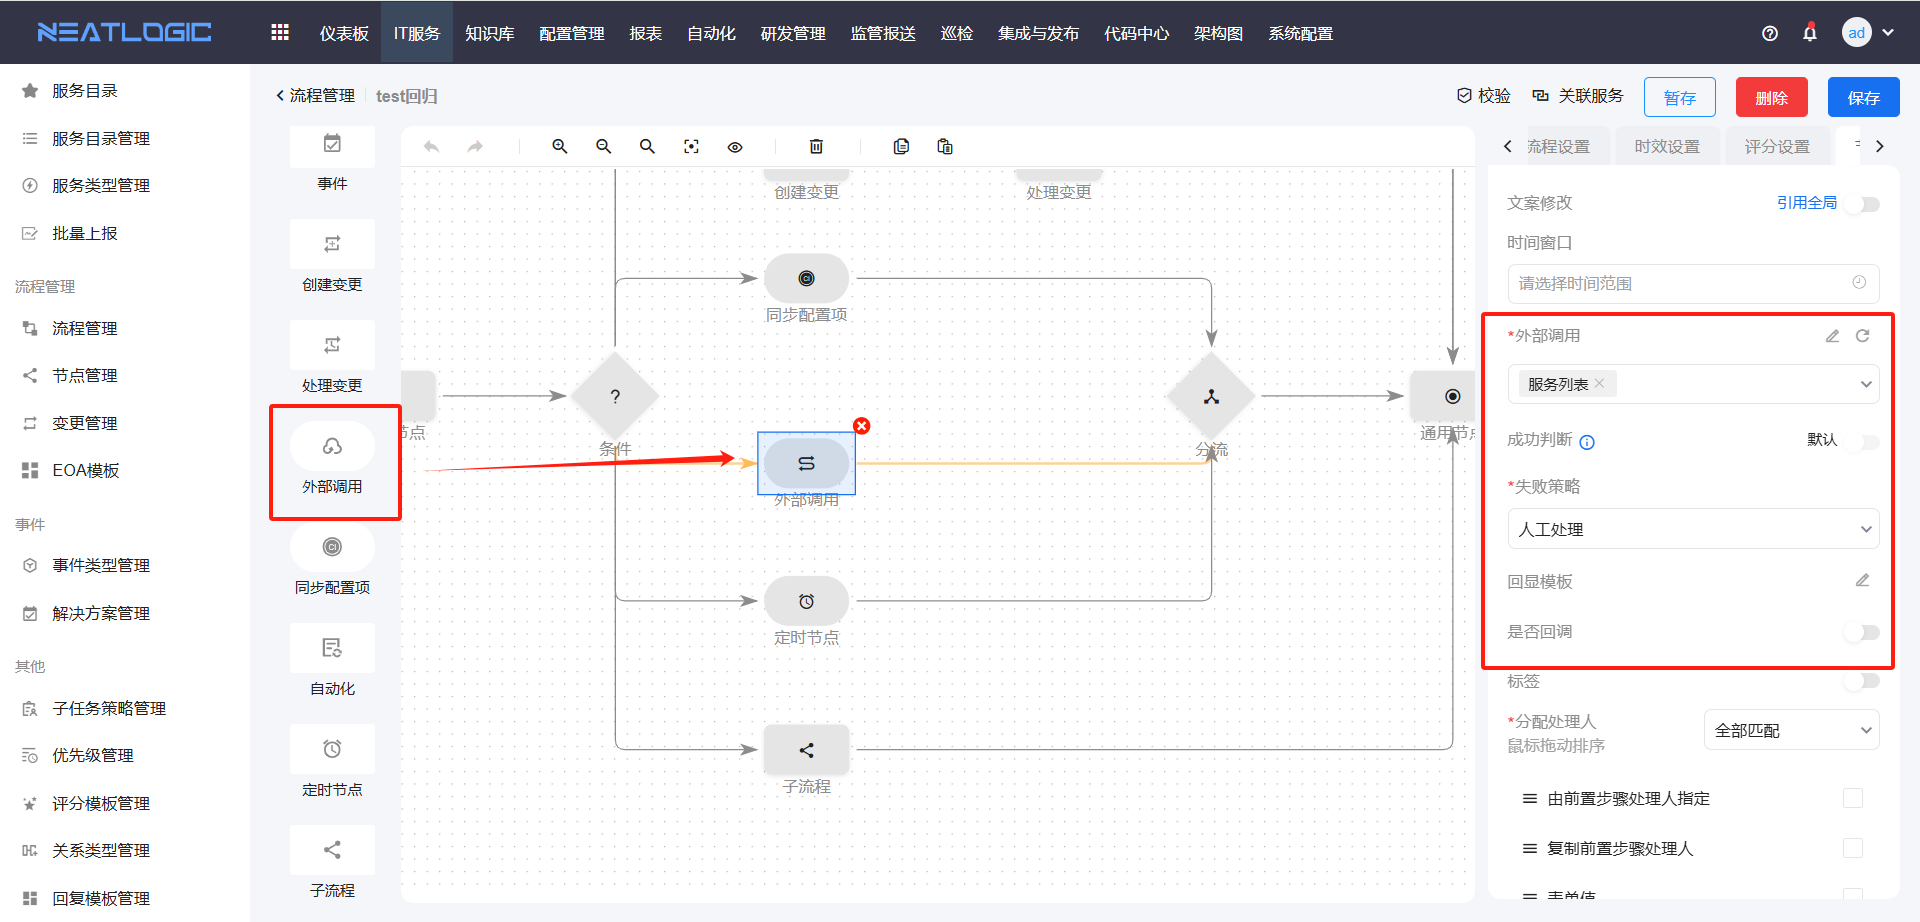
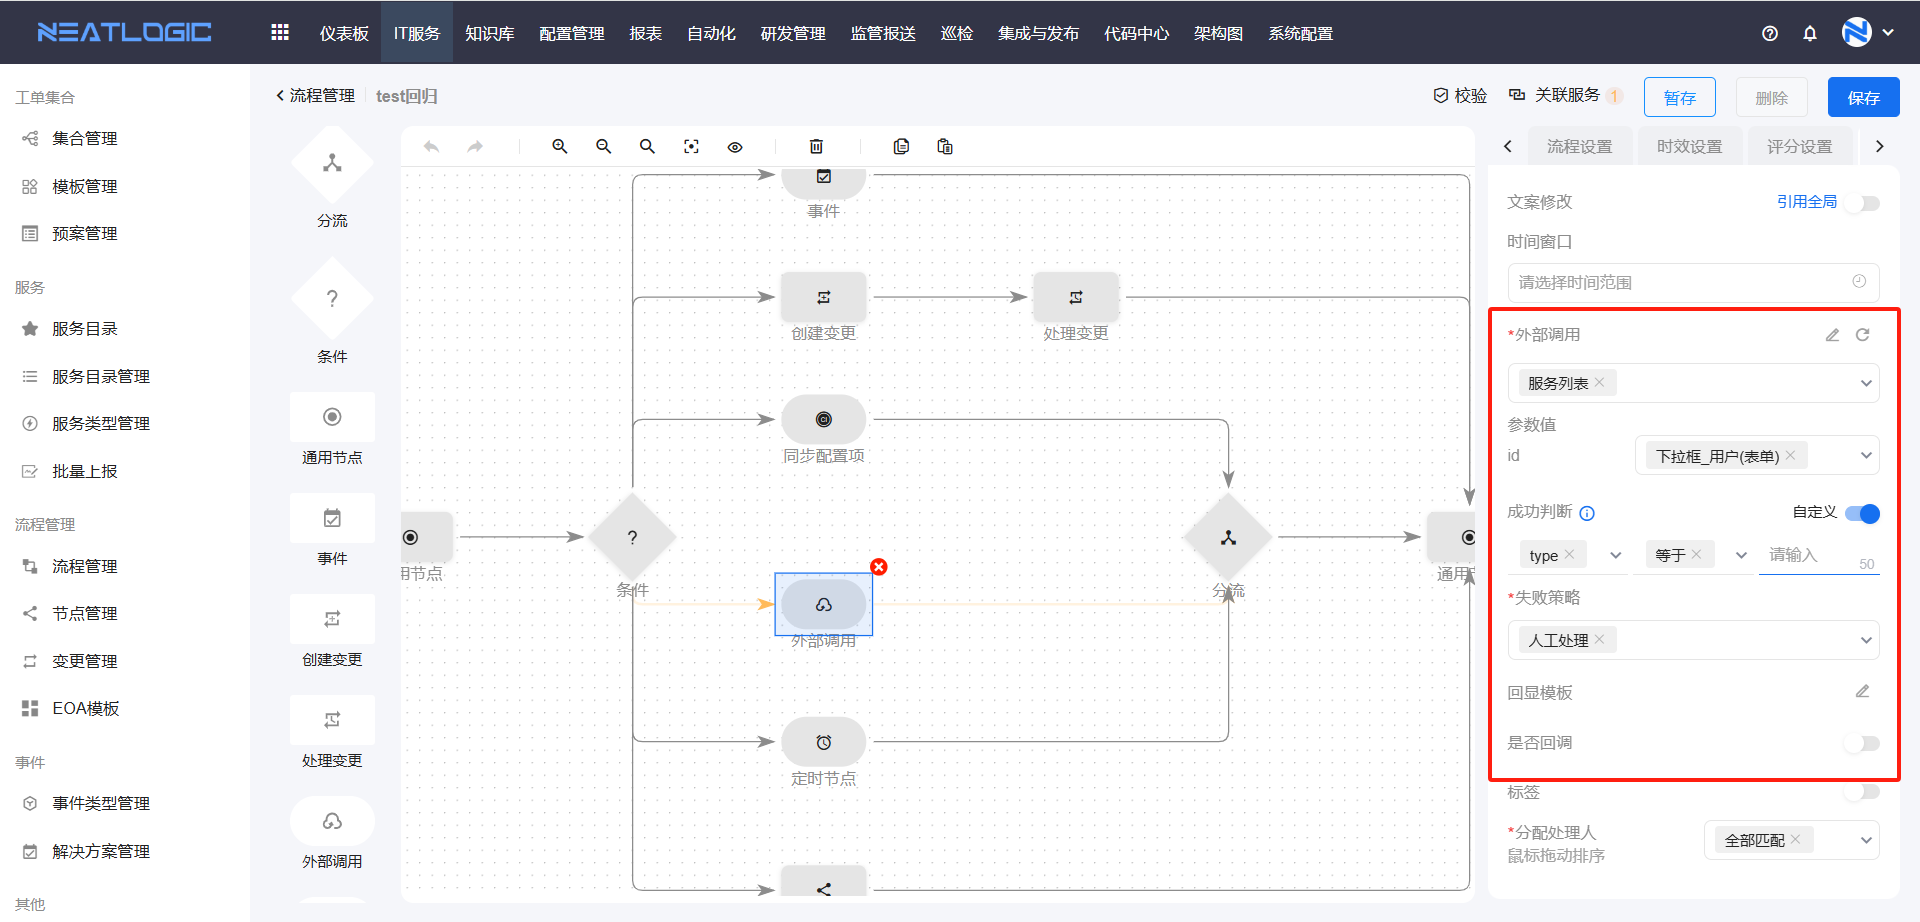
更新需求文档

diff --git a/src/main/resources/neatlogic/resources/documentonline/zh/5.自动化/自定义工具库/自定义工具库.md b/src/main/resources/neatlogic/resources/documentonline/zh/5.自动化/自定义工具库/自定义工具库.md
@@ -7,14 +7,14 @@
 * 已通过：已经审批通过的自定义工具，生成新版本。
 * 已驳回：审批被驳回的自定义工具，不生成新版本，可以重新编辑并提交审核。
 
-### 权限说明
+## 权限说明
 自定义工具相关的权限包括“工具、自定义工具维护权限”、“工具、自定义工具管理权限”和“工具、自定义工具查看权限”。
 * 拥有上述三个权限任意一个，显示“自定义工具库”菜单入口。
 * 当用户拥有“工具、自定义工具维护权限”时，可查看、编辑、复制和测试工具。
 * 当用户仅有“工具、自定义工具管理权限”时，可进行自定义工具的所有操作。
 * 当用户仅有“工具、自定义工具查看权限”时，可查看自定义工具详情。
 
-### 添加自定义工具
+## 添加自定义工具
 添加工具的步骤：发起添加-填写工具基本信息-创建版本-提交审核
 ![](images/自定义工具库_添加工具.gif)
 审批人审核
@@ -22,11 +22,16 @@
 是否库文件：当工具被启用为库文件，即可以作为别的脚本的依赖工具，且库文件不能单独执行。
 ![](images/自定义工具库_是否为库文件.png)
 
-### 编辑工具
+## 编辑工具
 编辑工具步骤：查看自定义工具-打开编辑模式-修改工具设置-提交审核
 ![](images/自定义工具库_编辑工具.gif)
+编辑工具后，若不提交，可以点击保存为草稿
+![](images/自定义工具库_保存草稿.png)
+保存成功的草稿可在管理页-草稿列表或在详情页的版本列表中查看。
+![](images/自定义工具库_草稿列表.png)
+![](images/自定义工具库_未审核版本.png)
 
-### 查看版本
+## 查看版本
 自定义工具每次审批通过会生成一个新版本，自定义工具详情页面支持查看历史版本，并进行版本对比，可以回退到历史版本
 
 查看版本
@@ -34,22 +39,33 @@
 回退、删除版本，历史版本才支持回退和删除
 ![](images/自定义工具库_回退版本.png)
 
-### 发布为组合工具
+
+## 测试工具
+自定义工具支撑通过发起测试作业，验证工具可用性。如果测试的是远程执行的工具，执行目标资产必须是有“test”标签的资产，可在[资产清单](../../3.配置管理/资源中心/资产清单.md)中资产打标签。
+![](images/自定义工具库_发起测试作业.png)
+测试激活版本入口
+![](images/自定义工具库_管理页测试工具.png)
+![](images/自定义工具库_详情页测试工具.png)
+测试草稿
+![](images/自定义工具库_测试草稿.png)
+
+## 发布为组合工具
 [组合工具](../组合工具/组合工具.md)只需要用到一个自定义工具时，自定义工具支持一键发布为组合工具，组合工具不能修改。
 ![](images/自定义工具库_发布为组合工具.gif)
 
-### 复制自定义工具
+## 复制自定义工具
 自定义工具支持一键复制的功能，复制工具时，可修改基本信息，脚本无法修改。
 ![](images/自定义工具库_复制工具.gif)
 
-### 删除自定义工具
+## 删除自定义工具
 删除自定义工具的方法包括删除单个工具和批量删除。
 ![](images/自定义工具库_删除工具.png)
-### 搜索
+
+## 搜索
 自定义工具支持复合搜索，搜素条件包括关键字、执行方式、工具分类操作级别等。
 ![](images/自定义工具库_搜索.gif)
 
-### 导出和导入
+## 导出和导入
 导出自定义工具有单个导出和批量导出两种方式。
 ![](images/自定义工具库_导出单个工具.png)
 ![](images/自定义工具库_批量导出.png)

diff --git a/src/main/resources/neatlogic/resources/documentonline/zh/5.自动化/组合工具/组合工具.md b/src/main/resources/neatlogic/resources/documentonline/zh/5.自动化/组合工具/组合工具.md
@@ -145,11 +145,13 @@
 执行用户是指作业通过协议连接机器时使用的用户名，这里的用户名要与连接的机器的配置项数据中添加的账号的用户名一致。执行用户支持输入常量或者引用作业参数。
 ![](images/组合工具_执行目标_执行用户.png)
 
-#### runner执行组
-runner执行组配置是定义runner执行的阶段（组）分配到的执行器组，其数据来源于[执行器组管理](../../100.系统配置/5.基础服务/执行器组管理.md)。<br>
-执行器组标签：每个执行器组标记了标签，发起作业时，要先根据选择的执行器标签过滤执行器组。
-runner执行组支持直接选择执行器组或者引用作业参数。
+#### 执行器规则配置
+执行器规则配置是定义runner执行类型的阶段分配执行器规则的，包括执行器组标签和执行器组配置，数据来源于[执行器组管理](../../100.系统配置/5.基础服务/执行器组管理.md)。<br>
+执行器组标签：执行器组的标签。发起作业时，要根据选择的执行器标签匹配执行器组，若预设的执行器组都不包含预设的执行器组标签，无法保存作业。
+执行器组标签和执行组支持选择常量组或者引用作业参数。
 ![](images/组合工具_执行目标_runner执行组.png)
+runner执行的阶段和执行目标中都可以定义执行器规则配置，优先使用阶段的配置，若阶段配置为空则使用组合工具执行目标的配置。
+![](images/runner阶段_预设执行器组.png)
 
 #### 分批数量
 远程执行的阶段执行时，会按照设置的分批数量来分批执行。比如分批数量为“4”时，阶段每个批次同时在4个执行目标上执行脚本，4个目标都执行完后再执行下一个批次。

diff --git a/src/main/resources/neatlogic/resources/documentonline/zh/6.集成与发布/应用配置.md b/src/main/resources/neatlogic/resources/documentonline/zh/6.集成与发布/应用配置.md
@@ -136,7 +136,11 @@
 
 ### DB配置
 DB配置有添加、编辑和删除操作，数据库对象来源于资产清单的数据库实例，账号来源于已选数据库实例配置的账号
-![](images/应用配置_添加DB配置.png)
+![](images/应用配置_环境层_添加DB配置.png)
+添加DB配置时，数据库下拉框若缺少相应数据，可以快速添加数据库，并且快速添加数据库的帐号
+![](images/应用配置_环境层_快速添加数据库.png)
+若保存DB配置时，出现下图提示，是因为[全局属性](../3.配置管理/系统管理/全局属性管理.md)“应用环境”单选且该数据库已经被同一个应用下的其他模块引用。
+![](images/应用配置_环境层_保存DB配置失败.png)
 
 ### 配置文件适配
 配置文件适配中支持配置环境的公共变量，环境包含的实例支持重定义变量值。

diff --git a/src/main/resources/neatlogic/resources/documentonline/zh/2.IT服务/流程管理/流程管理.md b/src/main/resources/neatlogic/resources/documentonline/zh/2.IT服务/流程管理/流程管理.md
@@ -40,8 +40,10 @@
 
 ### 2.7. 外部调用节点
 引用集成管理的集成配置接口，流转到该节点时自动调用配置接口发起请求，返回结果并判断是否满足成功。
-![](images/流程管理_外部调用节点.png)
 
+![](images/流程管理_外部调用节点.png)
+外部调用对象来自 [系统配置-集成管理](../../100.系统配置/3.数据和集成/集成管理.md) ，只支持自定义类型的集成配置。<br>
+参数值对象来自引用的集成配置的输入参数，自定义成功判断的参数来自集成配置的输入参数。
 
 ### 2.8. 配置项同步节点
 配置项同步节点是用来同步 **表单组件-配置项修改** 组件对模型配置项数据的变更，节点设置中必须关联一个配置项修改的表单组件。
